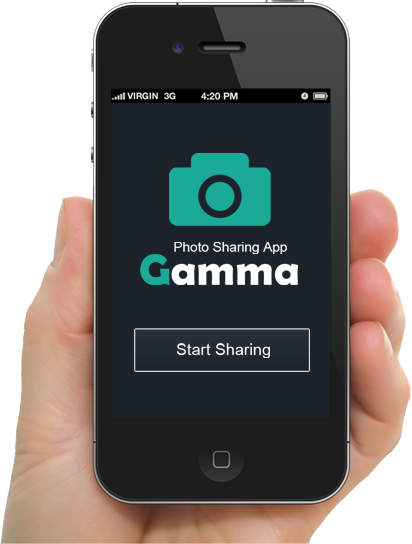
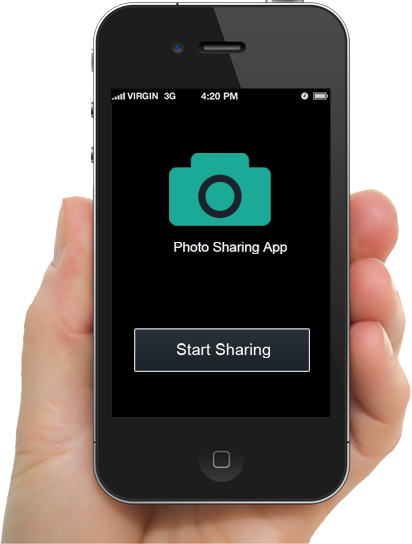
some changes

Changed region(s): [[0.2621, 0.1875, 0.8155, 0.7812]]

diff --git a/index.html b/index.html
@@ -4,7 +4,7 @@
     <meta charset="utf-8">
     <meta http-equiv="X-UA-Compatible" content="IE=edge">
     <meta name="viewport" content="width=device-width, initial-scale=1">
-    <title>Gamma: Photo Sharing App</title>
+    <title>Picsapp: Photo Sharing App</title>
     <!-- Bootstrap core CSS -->
     <link href="css/bootstrap.css" rel="stylesheet">
     <!-- Custom styles for this template -->
@@ -21,7 +21,7 @@
             <span class="icon-bar"></span>
             <span class="icon-bar"></span>
           </button>
-          <a class="navbar-brand em-text" href="index.html">Gamma</a>
+          <a class="navbar-brand em-text" href="index.html">Picsapp</a>
         </div>
         <div id="navbar" class="collapse navbar-collapse">
           <ul class="nav navbar-nav">
@@ -78,7 +78,7 @@
       <div class="container">
         <div class="row">
           <div class="col-md-5">
-            <h1>Gamma Features</h1>
+            <h1>Picsapp Features</h1>
             <ul>
               <li> <i class="glyphicon glyphicon-ok"></i> Donec pulvinar </li>
               <li> <i class="glyphicon glyphicon-ok"></i>Sit amet euismod mauris rutrum</li>
@@ -105,7 +105,7 @@
             </ul>
           </div>
           <div class="col-md-6 col-xs-12">
-            <p>Copyright &copy; 2015, All Rights Reserved</p>
+            <p>Copyright &copy; 2017, All Rights Reserved</p>
           </div>
         </div>
       </div>

diff --git a/about.html b/about.html
@@ -4,7 +4,7 @@
     <meta charset="utf-8">
     <meta http-equiv="X-UA-Compatible" content="IE=edge">
     <meta name="viewport" content="width=device-width, initial-scale=1">
-    <title>Gamma: About</title>
+    <title>Picsapp: About</title>
     <!-- Bootstrap core CSS -->
     <link href="css/bootstrap.css" rel="stylesheet">
     <!-- Custom styles for this template -->
@@ -21,7 +21,7 @@
             <span class="icon-bar"></span>
             <span class="icon-bar"></span>
           </button>
-          <a class="navbar-brand em-text" href="index.html">Gamma</a>
+          <a class="navbar-brand em-text" href="index.html">Picsapp</a>
         </div>
         <div id="navbar" class="collapse navbar-collapse">
           <ul class="nav navbar-nav">
@@ -37,7 +37,7 @@
       <div class="container">
         <div class="row">
           <div class="col-md-12">
-            <h1>About Gamma</h1>
+            <h1>About Picsapp</h1>
           </div>
         </div>
       </div>
@@ -118,7 +118,7 @@
             </ul>
           </div>
           <div class="col-md-6 col-xs-12">
-            <p>Copyright &copy; 2015, All Rights Reserved</p>
+            <p>Copyright &copy; 2017, All Rights Reserved</p>
           </div>
         </div>
       </div>

diff --git a/contact.html b/contact.html
@@ -4,7 +4,7 @@
     <meta charset="utf-8">
     <meta http-equiv="X-UA-Compatible" content="IE=edge">
     <meta name="viewport" content="width=device-width, initial-scale=1">
-    <title>Gamma: Contact</title>
+    <title>Picsapp: Contact</title>
     <!-- Bootstrap core CSS -->
     <link href="css/bootstrap.css" rel="stylesheet">
     <!-- Custom styles for this template -->
@@ -21,7 +21,7 @@
             <span class="icon-bar"></span>
             <span class="icon-bar"></span>
           </button>
-          <a class="navbar-brand em-text" href="index.html">Gamma</a>
+          <a class="navbar-brand em-text" href="index.html">Picsapp</a>
         </div>
         <div id="navbar" class="collapse navbar-collapse">
           <ul class="nav navbar-nav">
@@ -91,7 +91,7 @@
             </ul>
           </div>
           <div class="col-md-6 col-xs-12">
-            <p>Copyright &copy; 2015, All Rights Reserved</p>
+            <p>Copyright &copy; 2017, All Rights Reserved</p>
           </div>
         </div>
       </div>
